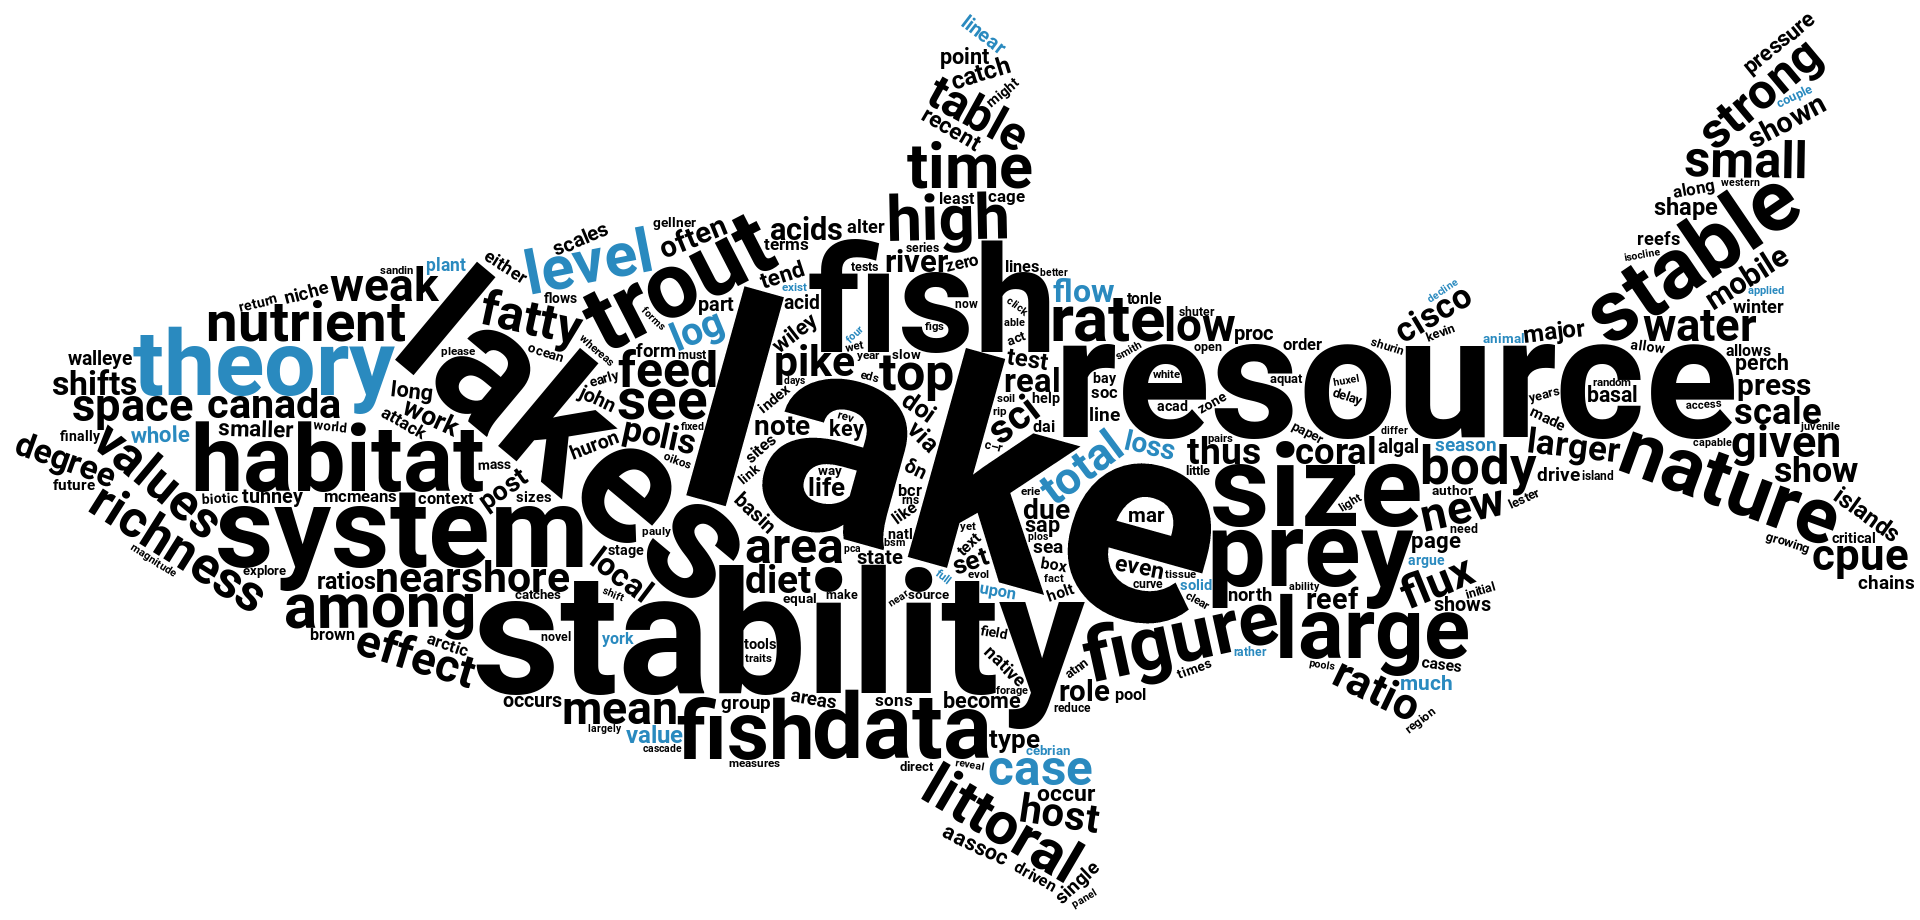
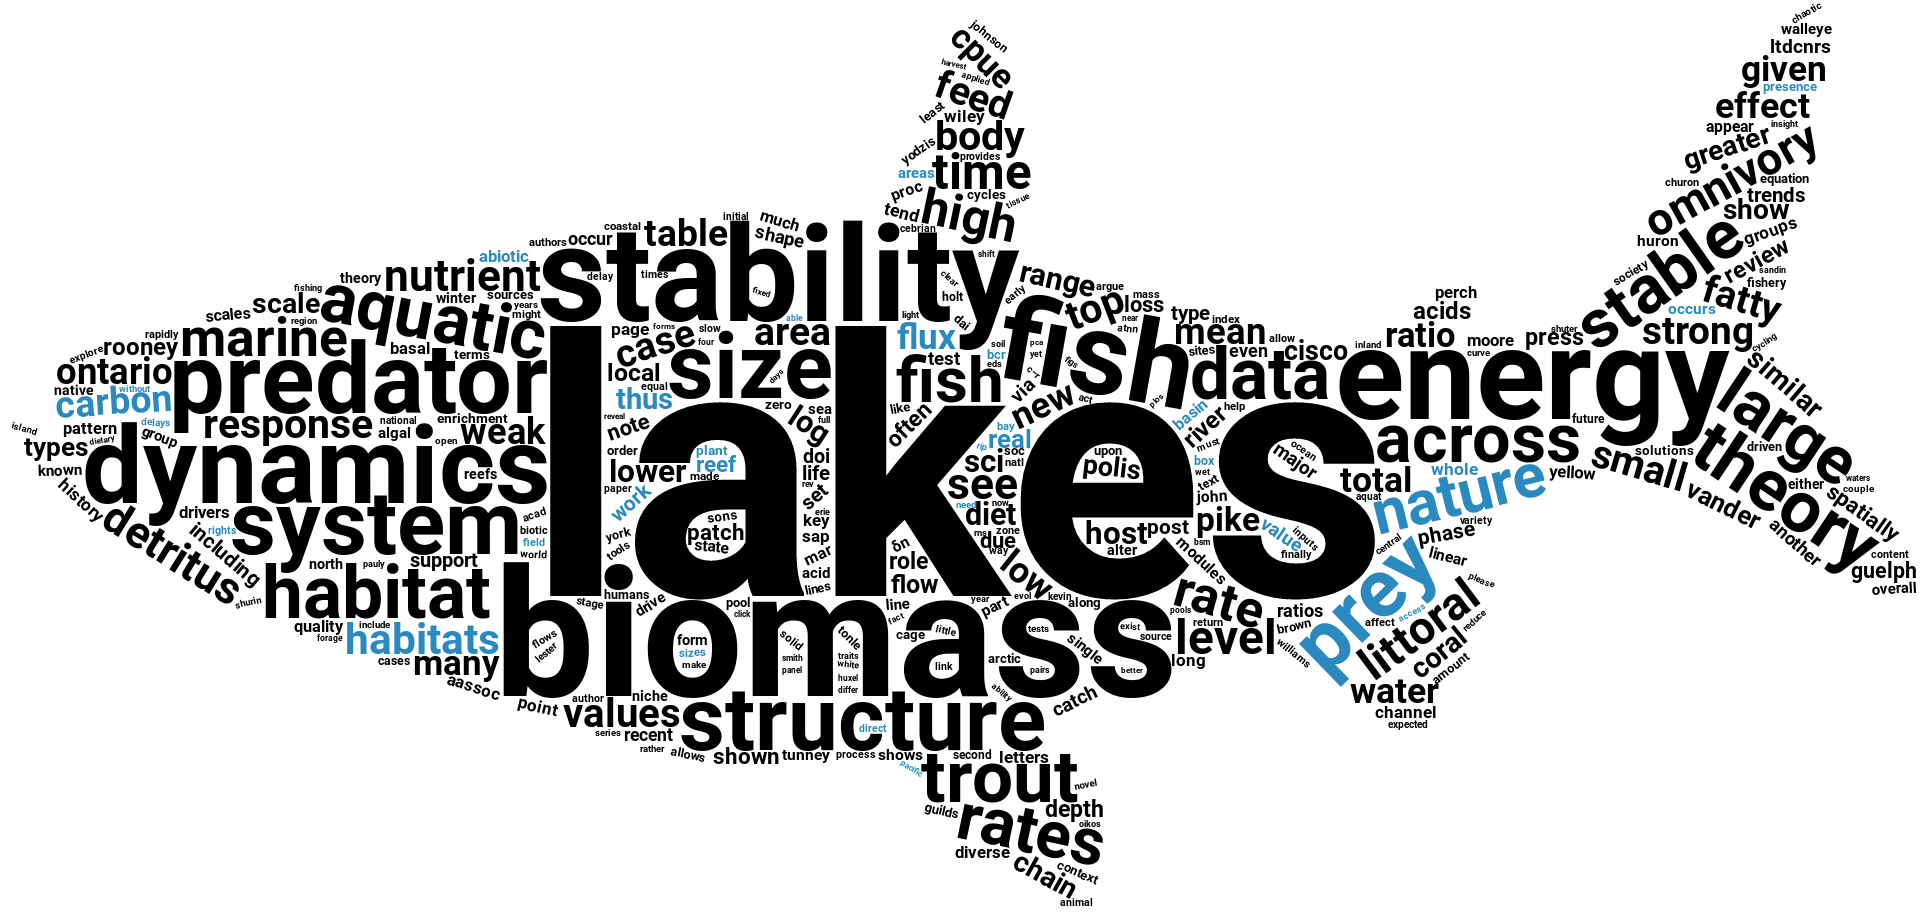
gives three examples

Changed region(s): [[0.0, 0.0, 1.0, 1.0]]

diff --git a/README.md b/README.md
@@ -15,6 +15,10 @@ A word cloud for the lab
 the [*Coregonus hoyi* silouhette image available on PHYLOPIC](http://phylopic.org/name/abd8b928-8ae8-437a-9988-17ec358043b7).
 
 
-## Result
+## Results
 
 ![](img/wordCloudMC.png)
+
+![](img/wordCloudMC_1.png)
+
+![](img/wordCloudMC_2.png)
